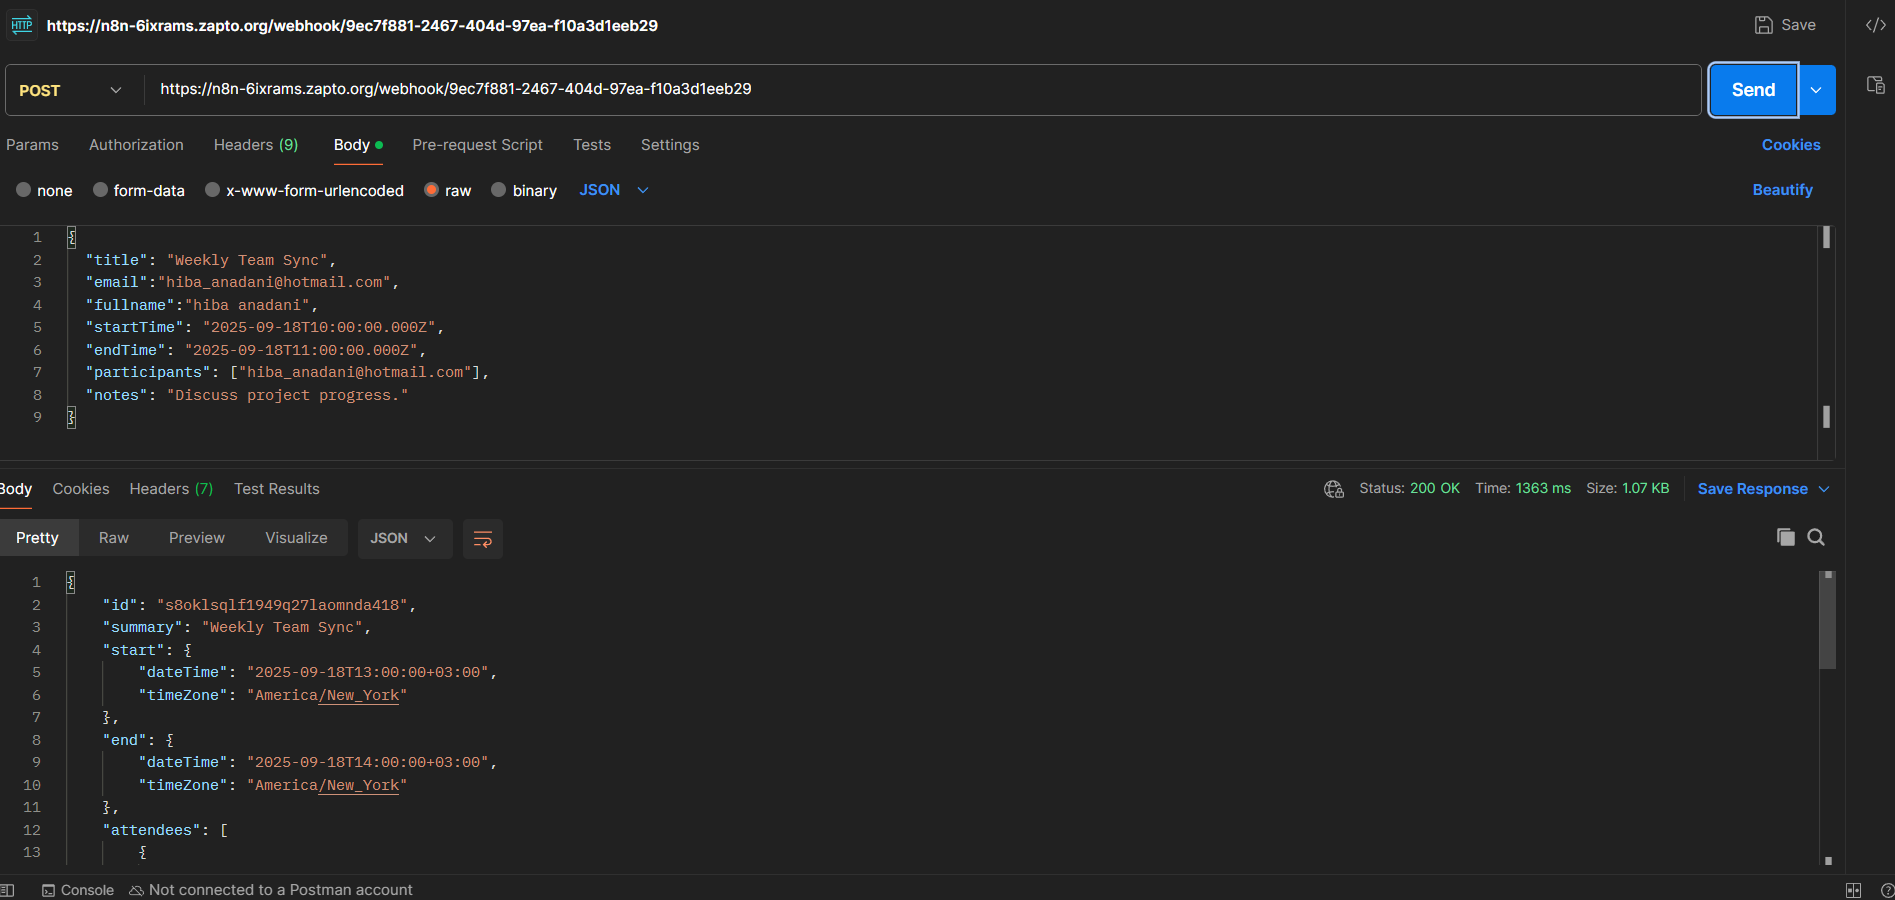
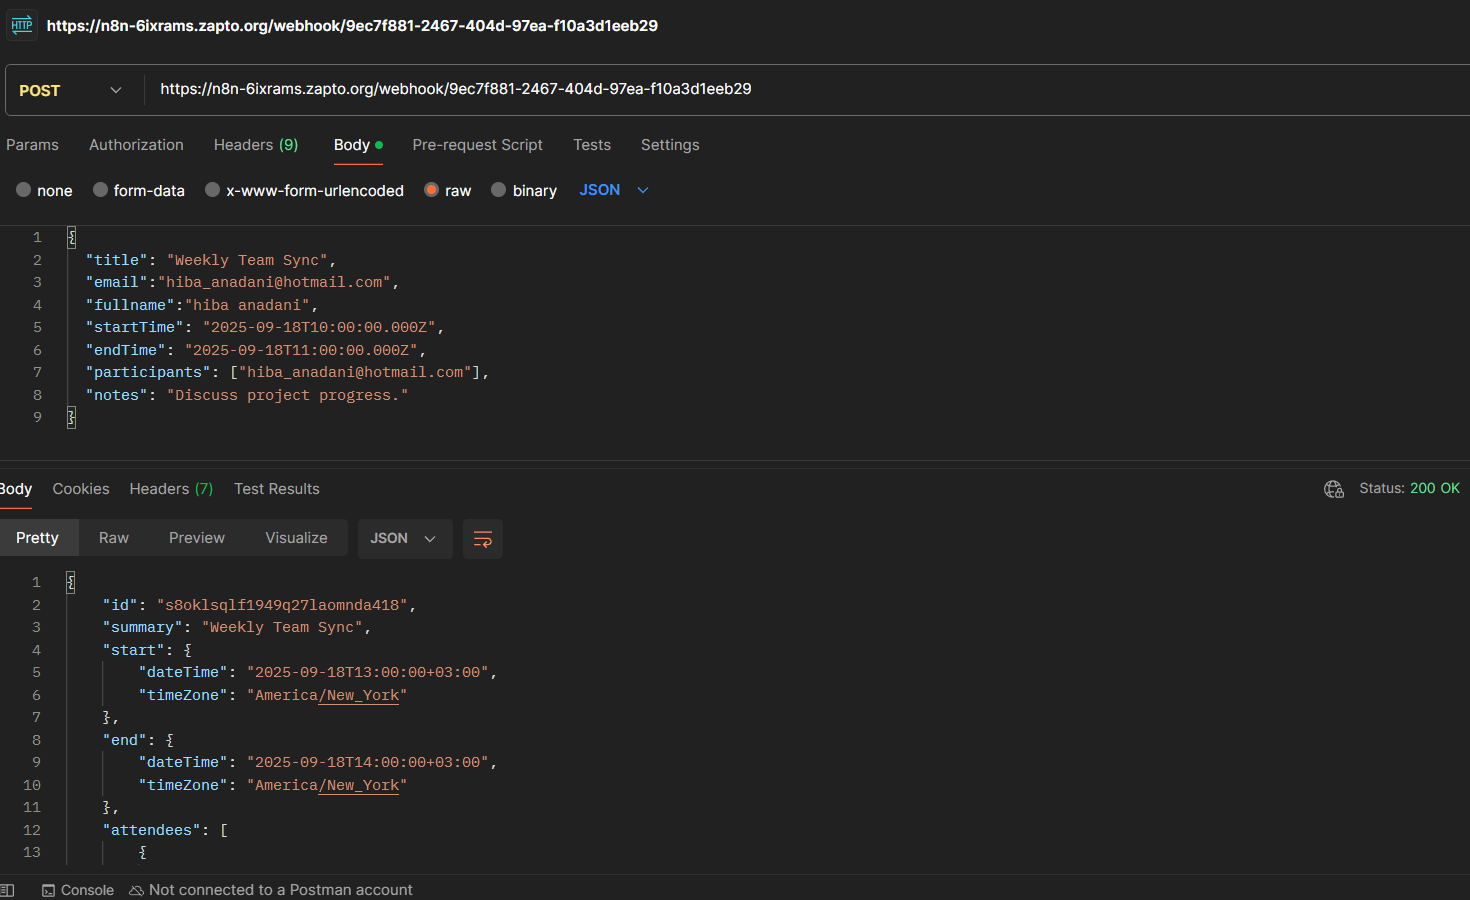
cleaned the ai agent and ml model test cases

diff --git a/server-side/intelli-room/src/ai-agent/ai-agent.service.spec.ts b/server-side/intelli-room/src/ai-agent/ai-agent.service.spec.ts
@@ -4,10 +4,7 @@ import { HttpService } from '@nestjs/axios';
 import { ConfigService } from '@nestjs/config';
 import { of, throwError } from 'rxjs';
 import { AxiosError, AxiosResponse } from 'axios';
-import {
-  BadRequestException,
-  InternalServerErrorException,
-} from '@nestjs/common';
+import { BadRequestException } from '@nestjs/common';
 import {
   IsDateString,
   IsString,
@@ -17,6 +14,7 @@ import {
   IsNotEmpty,
 } from 'class-validator';
 
+// Mocks for DTOs
 class FrontendBookingDto {
   @IsNotEmpty()
   @IsString()
@@ -62,10 +60,6 @@ const mockHttpService = {
   get: jest.fn(),
 };
 
-const mockConfigService = {
-  get: jest.fn(),
-};
-
 describe('AiAgentService', () => {
   let service: AiAgentService;
   let httpService: HttpService;
@@ -76,11 +70,13 @@ describe('AiAgentService', () => {
   beforeEach(async () => {
     jest.clearAllMocks();
 
-    mockConfigService.get.mockImplementation((key: string) => {
-      if (key === 'N8N_WEBHOOK_URL_Calendar') return bookingUrl;
-      if (key === 'N8N_WEBHOOK_URL_Available') return availableTimesUrl;
-      return null;
-    });
+    const mockConfigService = {
+      get: (key: string) => {
+        if (key === 'N8N_WEBHOOK_URL_Calendar') return bookingUrl;
+        if (key === 'N8N_WEBHOOK_URL_Available') return availableTimesUrl;
+        return null;
+      },
+    };
 
     const module: TestingModule = await Test.createTestingModule({
       providers: [
@@ -98,8 +94,9 @@ describe('AiAgentService', () => {
 
     service = module.get<AiAgentService>(AiAgentService);
     httpService = module.get<HttpService>(HttpService);
-    (service as any).n8nBookingWebhookUrl = bookingUrl;
-    (service as any).n8nAvailableTimesWebhookUrl = availableTimesUrl;
+
+    // IMPORTANT: Call onModuleInit to set the private URL properties
+    await service.onModuleInit();
   });
 
   const createAxiosError = (status: number, message: string): AxiosError => {
@@ -116,40 +113,6 @@ describe('AiAgentService', () => {
 
   it('should be defined', () => {
     expect(service).toBeDefined();
-  });
-
-  describe('configuration validation in onModuleInit', () => {
-    it('should throw an error if booking URL is not defined', async () => {
-      mockConfigService.get.mockImplementation((key: string) => {
-        if (key === 'N8N_WEBHOOK_URL_Calendar') return null;
-        if (key === 'N8N_WEBHOOK_URL_Available') return availableTimesUrl;
-        return null;
-      });
-
-      const service = new AiAgentService(
-        mockHttpService as any,
-        mockConfigService as any,
-      );
-      await expect(service.onModuleInit()).rejects.toThrow(
-        InternalServerErrorException,
-      );
-    });
-
-    it('should throw an error if available times URL is not defined', async () => {
-      mockConfigService.get.mockImplementation((key: string) => {
-        if (key === 'N8N_WEBHOOK_URL_Calendar') return bookingUrl;
-        if (key === 'N8N_WEBHOOK_URL_Available') return null;
-        return null;
-      });
-
-      const service = new AiAgentService(
-        mockHttpService as any,
-        mockConfigService as any,
-      );
-      await expect(service.onModuleInit()).rejects.toThrow(
-        InternalServerErrorException,
-      );
-    });
   });
 
   describe('processBooking', () => {

diff --git a/server-side/intelli-room/src/ml-model/ml-model.service.spec.ts b/server-side/intelli-room/src/ml-model/ml-model.service.spec.ts
@@ -12,15 +12,11 @@ const mockHttpService = {
   post: jest.fn(),
 };
 
-const mockConfigService = {
-  get: jest.fn(),
-};
-
 describe('MlModelService', () => {
   let service: MlModelService;
-  let httpService: HttpService;
 
   const mlApiUrl = 'http://test.ml-api.com';
+
   const mockFile: Express.Multer.File = {
     fieldname: 'file',
     originalname: 'test.jpg',
@@ -37,10 +33,9 @@ describe('MlModelService', () => {
   beforeEach(async () => {
     jest.clearAllMocks();
 
-    mockConfigService.get.mockImplementation((key: string) => {
-      if (key === 'ML_API_URL') return mlApiUrl;
-      return undefined;
-    });
+    const mockConfigService = {
+      get: () => mlApiUrl,
+    };
 
     const module: TestingModule = await Test.createTestingModule({
       providers: [
@@ -58,24 +53,12 @@ describe('MlModelService', () => {
 
     service = module.get<MlModelService>(MlModelService);
 
-    (service as any).mlApiUrl = mlApiUrl;
+    // IMPORTANT: Call onModuleInit to set the private URL property
+    await service.onModuleInit();
   });
 
   it('should be defined', () => {
     expect(service).toBeDefined();
-  });
-
-  describe('onModuleInit', () => {
-    it('should throw an error if ML_API_URL is not defined', async () => {
-      mockConfigService.get.mockReturnValueOnce(undefined);
-      const testService = new MlModelService(
-        mockHttpService as any,
-        mockConfigService as any,
-      );
-      await expect(testService.onModuleInit()).rejects.toThrow(
-        InternalServerErrorException,
-      );
-    });
   });
 
   describe('analyzeRoom', () => {

diff --git a/server-side/intelli-room/jest.config.js b/server-side/intelli-room/jest.config.js
@@ -1,5 +1,4 @@
 module.exports = {
-  // Jest's testing environment
   moduleFileExtensions: ['js', 'json', 'ts'],
   rootDir: 'src',
   testRegex: '.*\\.spec\\.ts$',
@@ -9,9 +8,6 @@ module.exports = {
   collectCoverageFrom: ['**/*.(t|j)s'],
   coverageDirectory: '../coverage',
   testEnvironment: 'node',
-
-  // This is the important part to fix the "Cannot find module" error
-  // It tells Jest to map any path starting with 'src/' to the actual 'src' directory
   moduleNameMapper: {
     '^src/(.*)$': '<rootDir>/$1',
   },

diff --git a/server-side/intelli-room/jest-global-setup.js b/server-side/intelli-room/jest-global-setup.js
@@ -1,0 +1,5 @@
+module.exports = async () => {
+  process.env.ML_API_URL = 'http://test.ml-api.com';
+  process.env.N8N_WEBHOOK_URL_Calendar = 'http://test.n8n.com/booking';
+  process.env.N8N_WEBHOOK_URL_Available = 'http://test.n8n.com/available-times';
+};
